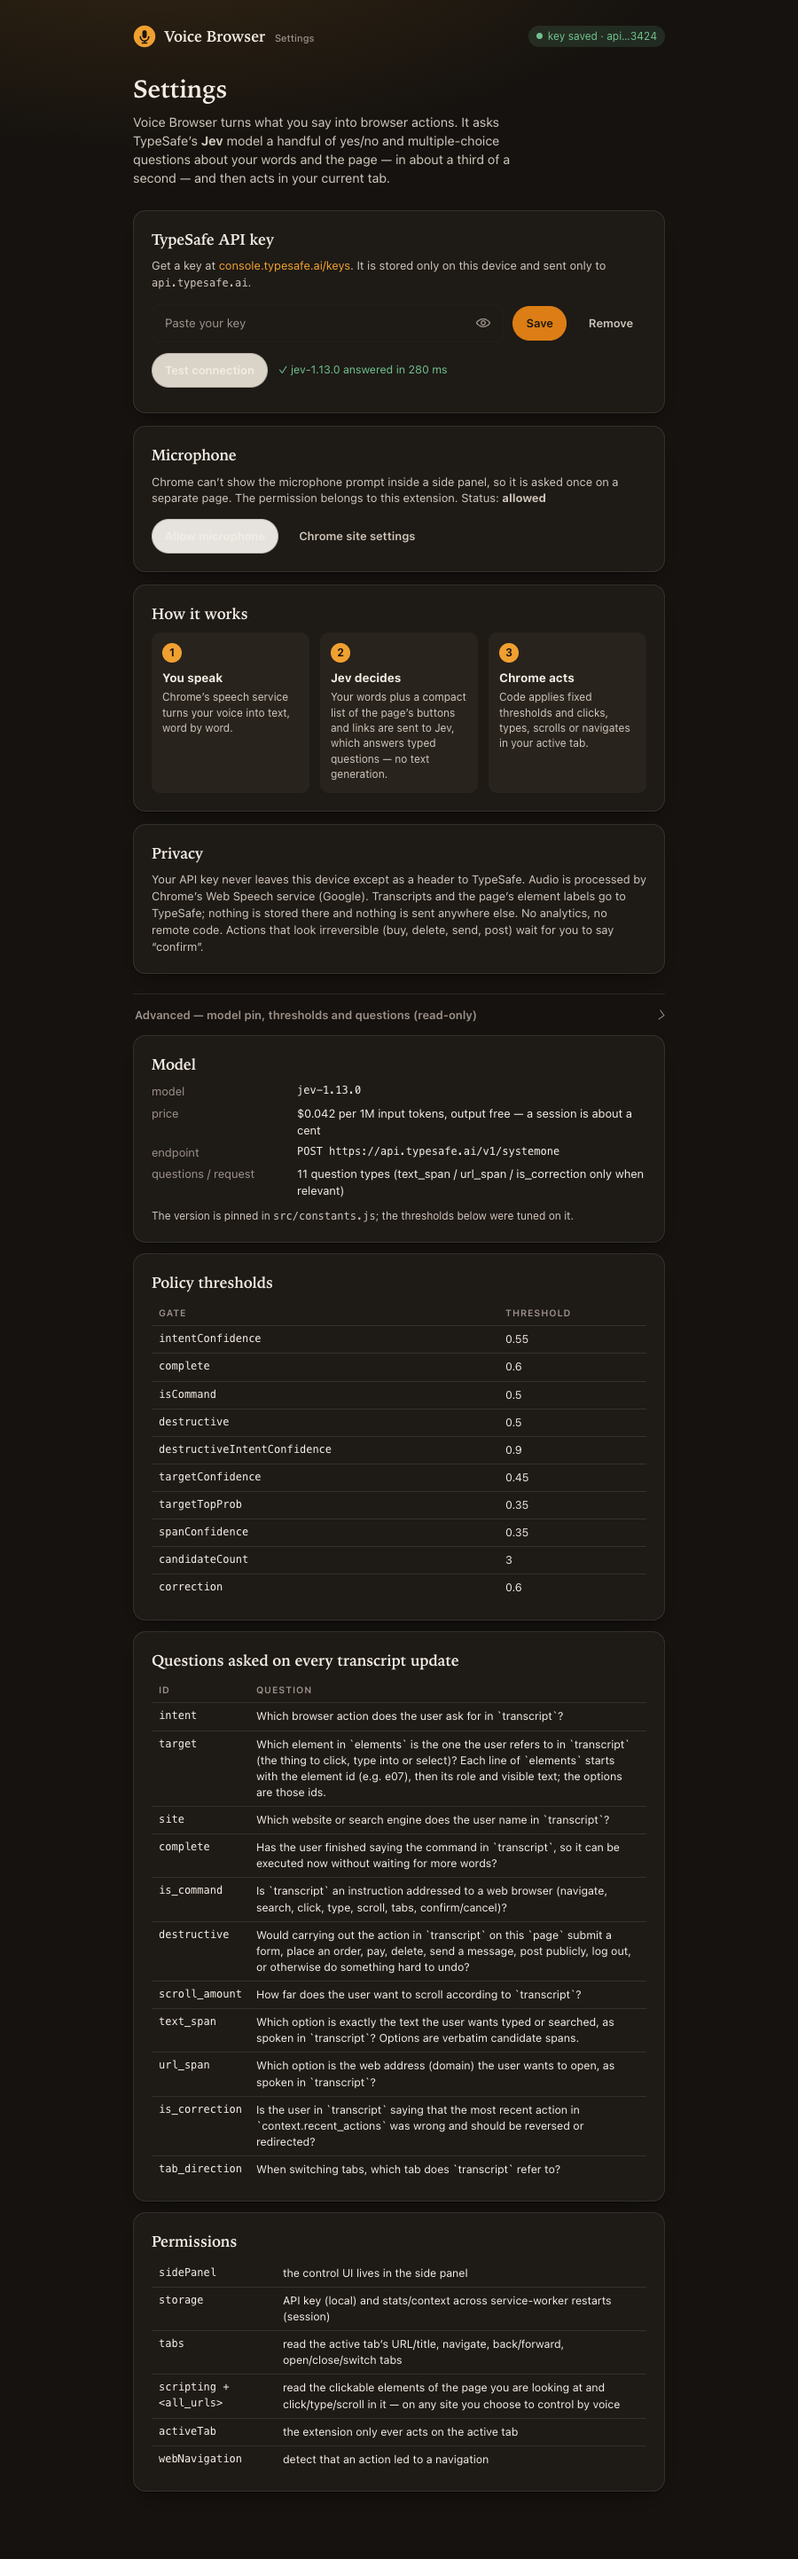
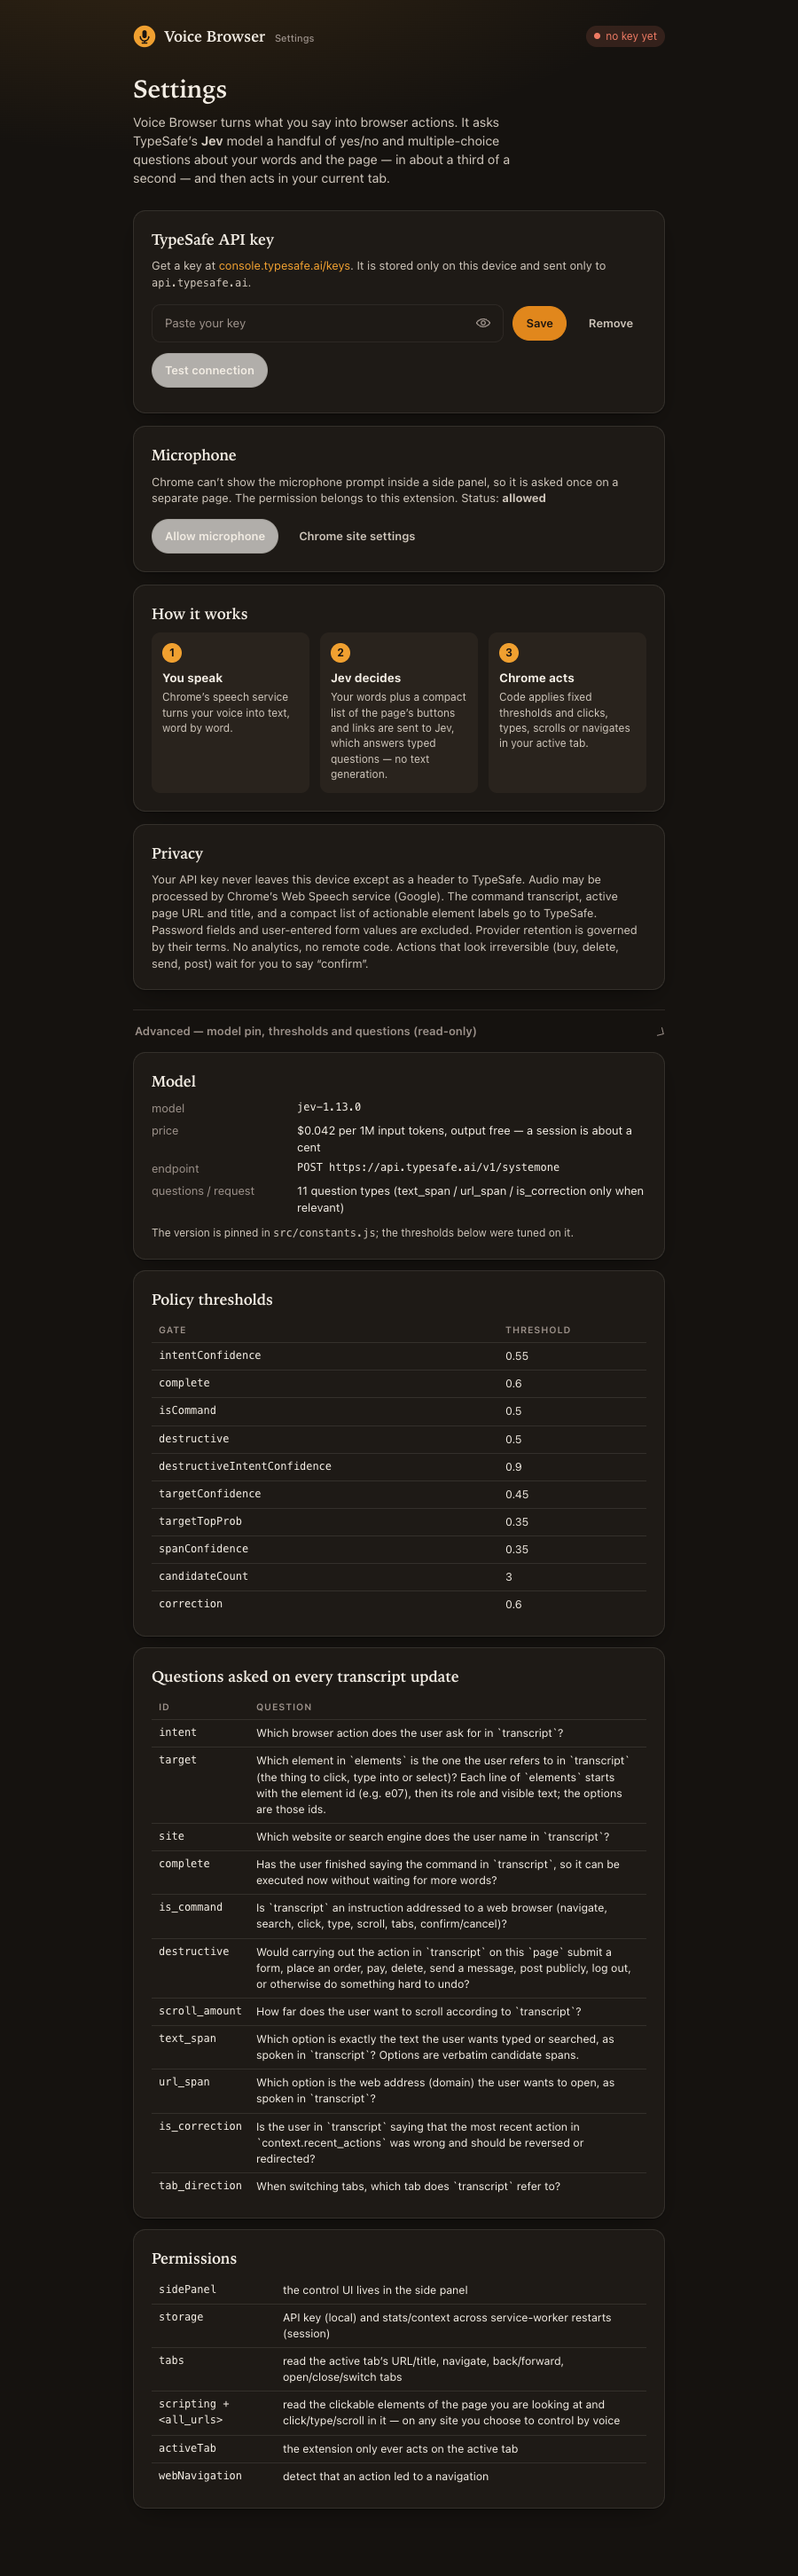
Prepare voice browser extension for public release

diff --git a/src/snapshot.js b/src/snapshot.js
@@ -160,6 +160,11 @@ export function collectElementsInPage() {
   function visit(el, frame, popupKind) {
     if (seen.has(el) || out.length >= MAX_RAW) return;
     seen.add(el);
+    const tag = el.tagName.toLowerCase();
+    const type = (el.getAttribute("type") || "").toLowerCase();
+    // Never inspect or expose password fields. User-entered values in other fields are also
+    // intentionally omitted below; labels/placeholders are enough to choose a target.
+    if (tag === "input" && type === "password") return;
     let rect;
     try {
       rect = el.getBoundingClientRect();
@@ -184,8 +189,6 @@ export function collectElementsInPage() {
     }
     registry.set(id, el);
 
-    const tag = el.tagName.toLowerCase();
-    const type = (el.getAttribute("type") || "").toLowerCase();
     let role = el.getAttribute("role") || "";
     if (!role) {
       if (tag === "a") role = "link";
@@ -203,10 +206,11 @@ export function collectElementsInPage() {
     }
 
     const img = el.querySelector && el.querySelector("img[alt]");
+    const controlLabel = tag === "input" && ["button", "submit", "reset"].includes(type) ? clean(el.value) : "";
     const name =
       clean(el.getAttribute("aria-label")) ||
       clean(el.innerText) ||
-      clean(el.value) ||
+      controlLabel ||
       clean(el.getAttribute("placeholder")) ||
       clean(el.getAttribute("title")) ||
       (img && clean(img.getAttribute("alt"))) ||

diff --git a/src/options.html b/src/options.html
@@ -61,7 +61,7 @@
 
     <section class="card rise" style="animation-delay:.15s">
       <h2>Privacy</h2>
-      <p class="desc" style="margin-bottom:0">Your API key never leaves this device except as a header to TypeSafe. Audio is processed by Chrome’s Web Speech service (Google). Transcripts and the page’s element labels go to TypeSafe; nothing is stored there and nothing is sent anywhere else. No analytics, no remote code. Actions that look irreversible (buy, delete, send, post) wait for you to say “confirm”.</p>
+      <p class="desc" style="margin-bottom:0">Your API key never leaves this device except as a header to TypeSafe. Audio may be processed by Chrome’s Web Speech service (Google). The command transcript, active page URL and title, and a compact list of actionable element labels go to TypeSafe. Password fields and user-entered form values are excluded. Provider retention is governed by their terms. No analytics, no remote code. Actions that look irreversible (buy, delete, send, post) wait for you to say “confirm”.</p>
     </section>
 
     <details class="section" id="advanced">

diff --git a/README.md b/README.md
@@ -1,14 +1,13 @@
 # Voice Browser — control *your own* Chrome by voice
 
-A Manifest V3 Chrome extension port of [voice-browser](../voice-browser/). Open the side panel, tap
-the mic, and talk: "go to wikipedia", "search for alan turing", "click the first result", "scroll
-down a bit", "go back", "no, not that one", "close this" (when a pop-up is in the way). Speech
-streams word by word from the side panel to the extension's service worker; on every partial
-transcript the worker asks **Jev** (TypeSafe's System One model, pinned `jev-1.13.0`) one request
-with ~12 typed questions — intent, target element, site, "is the command finished?", "is this even
-for me?", "is it destructive?", "is this a correction?" — gets typed probabilities back in ~300 ms,
-and code decides whether to act, wait, ask, or ignore. Then the extension acts on the tab you are
-looking at.
+A Manifest V3 Chrome extension. Open the side panel, tap the mic, and talk: "go to wikipedia",
+"search for alan turing", "click the first result", "scroll down a bit", "go back", "no, not that
+one", "close this" (when a pop-up is in the way). Speech streams word by word from the side panel
+to the extension's service worker; on every partial transcript the worker asks **Jev** (TypeSafe's
+System One model, pinned `jev-1.13.0`) one request with ~12 typed questions — intent, target element,
+site, "is the command finished?", "is this even for me?", "is it destructive?", "is this a
+correction?" — gets typed probabilities back in ~300 ms, and code decides whether to act, wait,
+ask, or ignore. Then the extension acts on the tab you are looking at.
 
 Jev never generates text. Search queries, typed text and URLs are extracted as candidate spans by
 code and Jev only *picks* one, which is copied verbatim.
@@ -196,7 +195,6 @@ after every decision/action and restored when the worker restarts.
 | `storage` | API key in `chrome.storage.local` (this device only); stats/context in `chrome.storage.session` |
 | `tabs` | read the active tab's URL/title, navigate it, back/forward/reload, open/close/switch tabs |
 | `scripting` + host permission `<all_urls>` | read the clickable elements of the page you are looking at and click/type/scroll in it. Voice control has to work on whatever site you are on, so it cannot be limited to a fixed host list. |
-| `activeTab` | the extension only ever acts on the active tab |
 | `webNavigation` | detect that an action led to a navigation (the `outcome` in Jev's context) |
 
 Safety: destructive clicks (buy, delete, send, post, log out) need a spoken "confirm"; the extension
@@ -205,6 +203,13 @@ acts only on the active tab; the API key is read only by the service worker and 
 sees a masked status only); no remote code; no analytics. Treat "confirm" as a convenience, not a
 guarantee — do not run this in a profile logged into anything a mis-heard "click place order"
 could hurt.
+
+## Privacy
+
+To interpret a command, the extension sends the transcript, active page URL/title, a compact list
+of actionable page elements, and limited recent-action context to `api.typesafe.ai`. Chrome's Web
+Speech API may send microphone audio to Google for transcription. The extension does not record
+audio, run analytics, or operate its own server. See the complete [privacy policy](PRIVACY.md).
 
 ## Tests
 

diff --git a/PRIVACY.md b/PRIVACY.md
@@ -1,0 +1,44 @@
+# Privacy Policy
+
+Effective date: September 22, 2026
+
+Voice Browser processes information only to interpret and carry out the user's voice or typed
+browser commands. It does not sell personal data, serve ads, or use analytics.
+
+## Information processed
+
+- Voice input is transcribed by Chrome's Web Speech API. Depending on the user's Chrome
+  configuration, Google may process the audio under Google's applicable privacy terms. Voice
+  Browser does not record or store microphone audio.
+- The command transcript, active page URL and title, a limited snapshot of actionable page
+  elements (such as visible labels, links, and form-field descriptions), and up to three recent
+  actions are sent to TypeSafe's System One API at `api.typesafe.ai` to determine the intended
+  action. Password fields and user-entered form values are excluded from the snapshot.
+- The user's TypeSafe API key is stored in `chrome.storage.local` on the user's device and is sent
+  only to `api.typesafe.ai` as an authorization credential. It is not exposed to visited pages.
+- Short-lived decision state, recent actions, and usage statistics are stored in
+  `chrome.storage.session` and are cleared when the browser session ends.
+
+## Data sharing and retention
+
+Voice Browser sends data only to the service providers required for speech transcription and
+command interpretation, as described above. The extension itself has no server and does not
+maintain a user database. Retention by Google and TypeSafe is governed by their respective terms
+and privacy policies. Data is not sold, used for advertising, used to determine creditworthiness,
+or transferred for purposes unrelated to the extension's single purpose.
+
+## Permissions
+
+The extension requires access to pages the user visits so it can identify controls and perform
+the requested click, typing, scrolling, navigation, and tab actions. It acts only on the active
+tab. A detailed explanation of each Chrome permission is available in the project README.
+
+## User controls
+
+Users can stop microphone access in Chrome's site settings, remove the saved API key from the
+extension settings, clear extension storage, or uninstall the extension at any time.
+
+## Contact
+
+For privacy questions, open an issue at
+https://github.com/moritzkremb/jev-voice-browser/issues.
